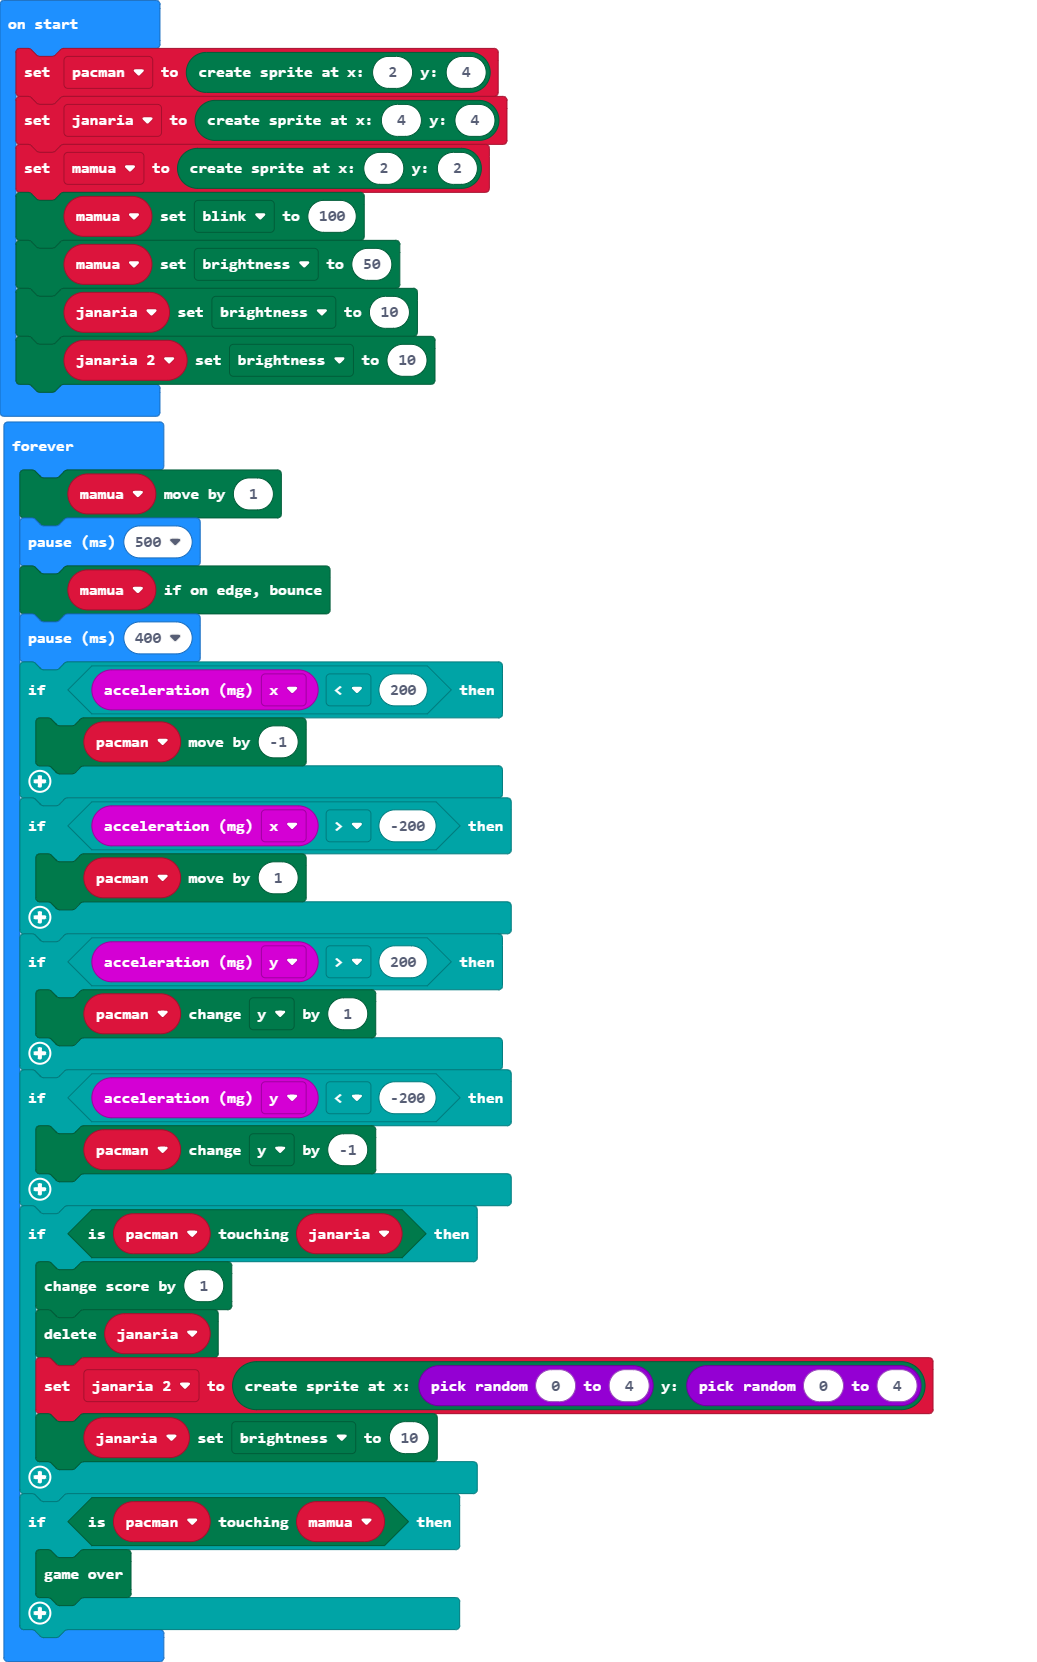
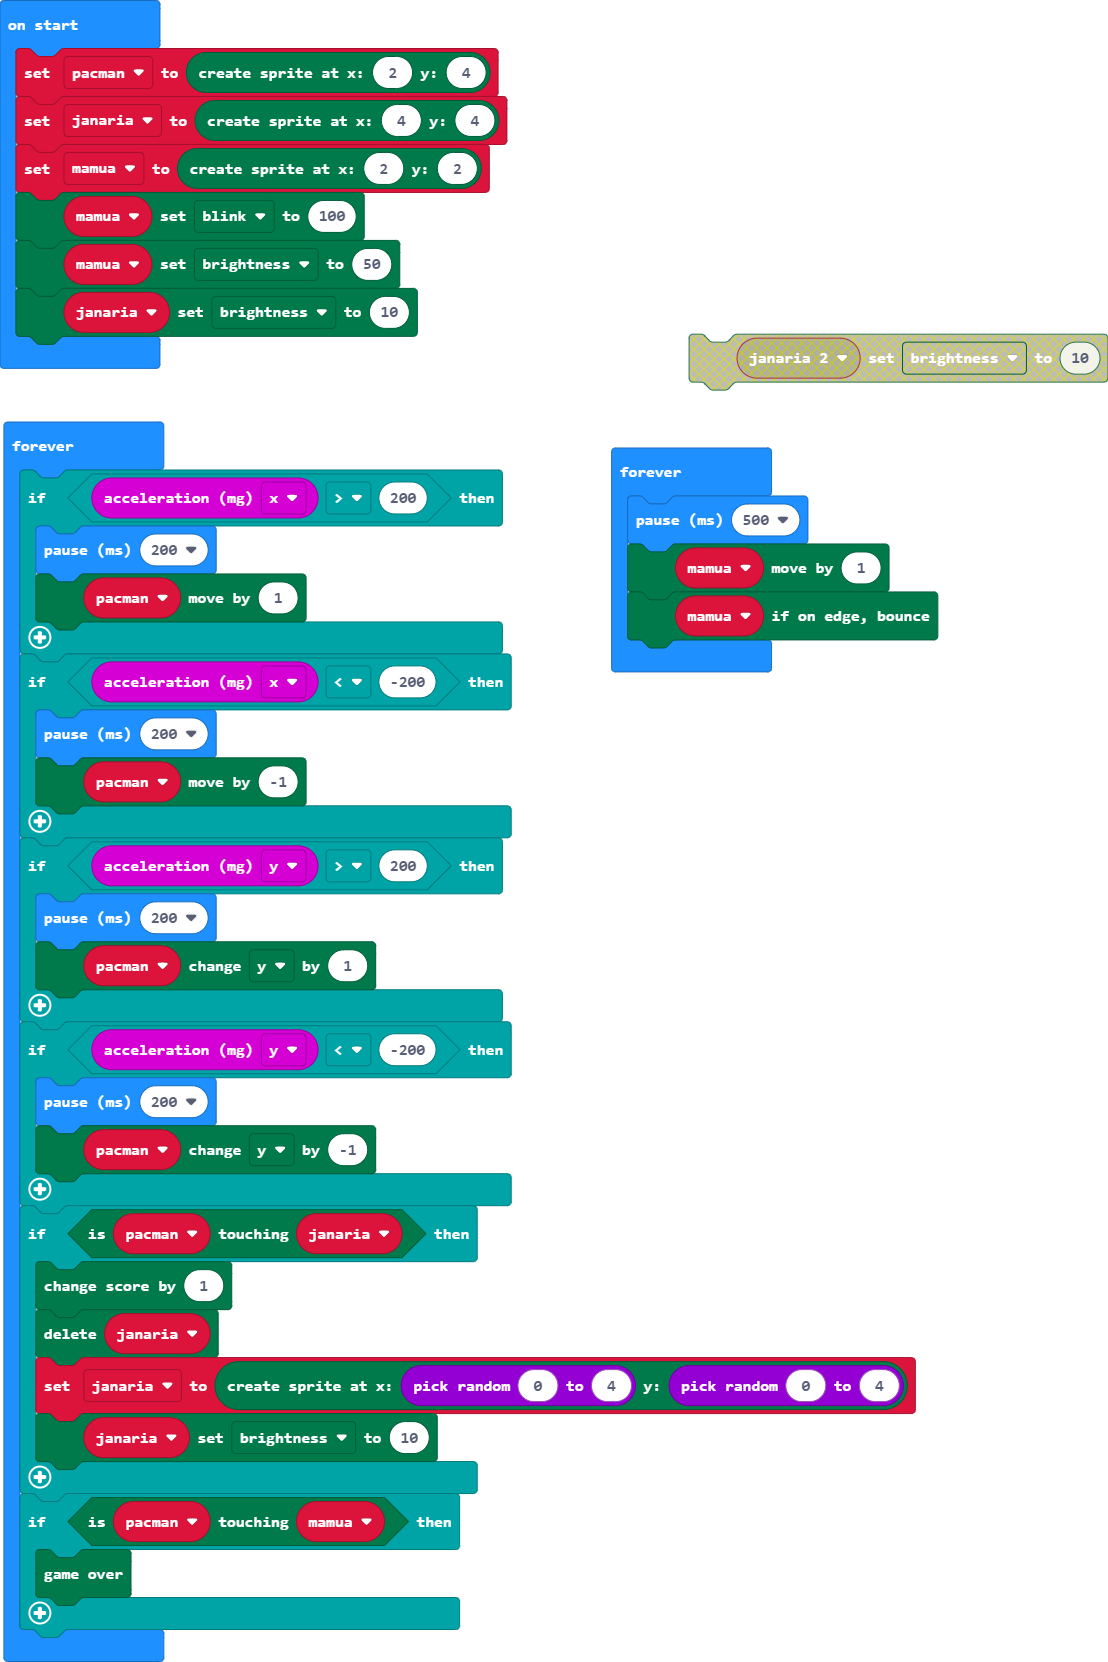
Update main.blocks, main.ts

diff --git a/main.ts b/main.ts
@@ -1,35 +1,38 @@
-let janaria_2: game.LedSprite = null
 let pacman = game.createSprite(2, 4)
 let janaria = game.createSprite(4, 4)
 let mamua = game.createSprite(2, 2)
 mamua.set(LedSpriteProperty.Blink, 100)
 mamua.set(LedSpriteProperty.Brightness, 50)
 janaria.set(LedSpriteProperty.Brightness, 10)
-janaria_2.set(LedSpriteProperty.Brightness, 10)
 basic.forever(function () {
-    mamua.move(1)
-    basic.pause(500)
-    mamua.ifOnEdgeBounce()
-    basic.pause(400)
-    if (input.acceleration(Dimension.X) < 200) {
-        pacman.move(-1)
-    }
-    if (input.acceleration(Dimension.X) > -200) {
+    if (input.acceleration(Dimension.X) > 200) {
+        basic.pause(200)
         pacman.move(1)
     }
+    if (input.acceleration(Dimension.X) < -200) {
+        basic.pause(200)
+        pacman.move(-1)
+    }
     if (input.acceleration(Dimension.Y) > 200) {
+        basic.pause(200)
         pacman.change(LedSpriteProperty.Y, 1)
     }
     if (input.acceleration(Dimension.Y) < -200) {
+        basic.pause(200)
         pacman.change(LedSpriteProperty.Y, -1)
     }
     if (pacman.isTouching(janaria)) {
         game.addScore(1)
         janaria.delete()
-        janaria_2 = game.createSprite(randint(0, 4), randint(0, 4))
+        janaria = game.createSprite(randint(0, 4), randint(0, 4))
         janaria.set(LedSpriteProperty.Brightness, 10)
     }
     if (pacman.isTouching(mamua)) {
         game.gameOver()
     }
+})
+basic.forever(function () {
+    basic.pause(500)
+    mamua.move(1)
+    mamua.ifOnEdgeBounce()
 })
